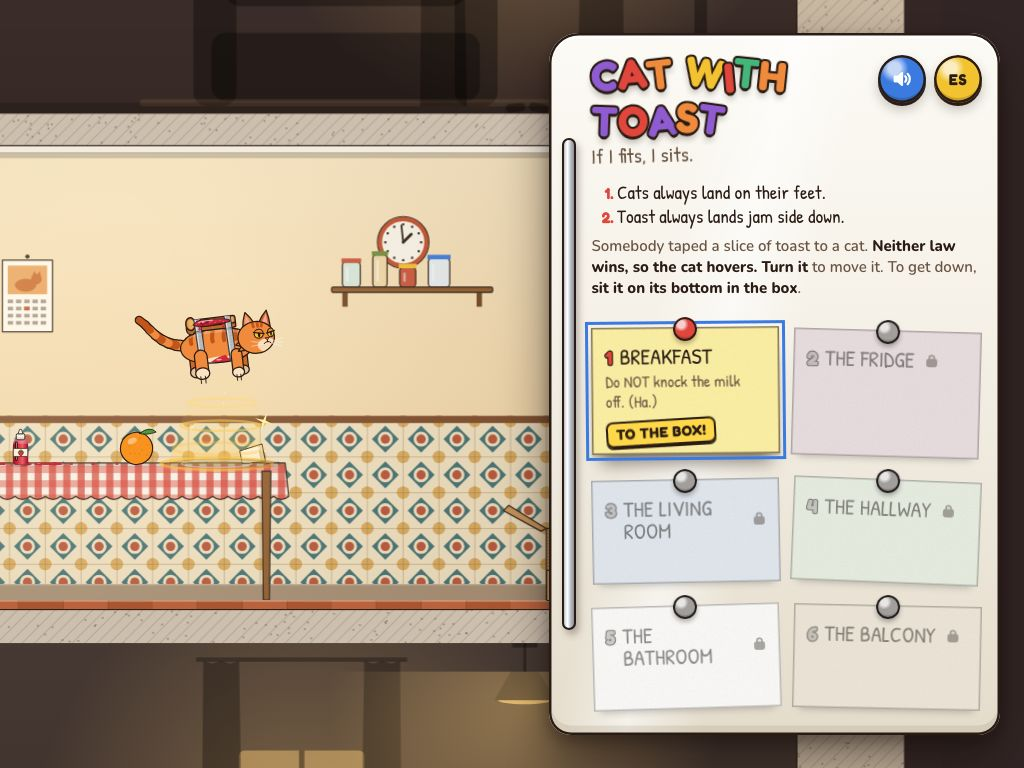
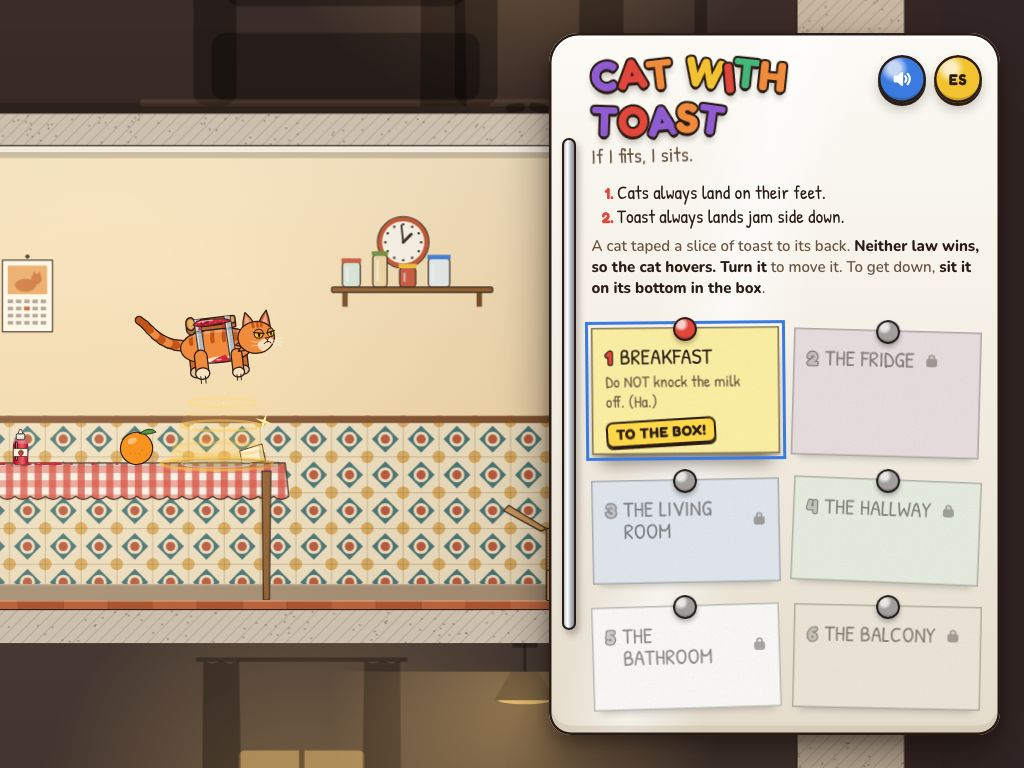
Web publicada desde 8a30f3d

Changed region(s): [[0.5625, 0.3125, 0.9688, 0.4062]]

diff --git a/10-gato-con-tostada/index.html b/10-gato-con-tostada/index.html
@@ -26,10 +26,10 @@
 <meta name="theme-color" content="#2A1C14">
 <meta name="color-scheme" content="light">
 <title>GATO CON TOSTADA · Si quepo, me siento.</title>
-<meta name="description" content="Los gatos siempre caen de pie; las tostadas, del lado de la mermelada. Alguien le ha atado una tostada a un gato y ahora flota. Gíralo para moverlo y, para bajar, siéntalo de culo en la caja.">
+<meta name="description" content="Los gatos siempre caen de pie; las tostadas, del lado de la mermelada. Un gato se ha atado una tostada a la espalda y ahora flota. Gíralo para moverlo y, para bajar, siéntalo de culo en la caja.">
 <meta property="og:type" content="website">
 <meta property="og:title" content="GATO CON TOSTADA · Si quepo, me siento.">
-<meta property="og:description" content="Le han atado una tostada con mermelada a un gato: ninguna ley gana y flota. Gíralo por la casa y siéntalo en la caja de cartón.">
+<meta property="og:description" content="Un gato se ha atado una tostada con mermelada a la espalda: ninguna ley gana y flota. Gíralo por la casa y siéntalo en la caja de cartón.">
 <meta property="og:image" content="https://jrubiosainz.github.io/recreativos/10-gato-con-tostada/assets/img/og.jpg">
 <meta property="og:image:width" content="1200">
 <meta property="og:image:height" content="630">

diff --git a/10-gato-con-tostada/src/i18n.js b/10-gato-con-tostada/src/i18n.js
@@ -8,7 +8,7 @@ const S = {
     canvas: 'Un piso visto en sección. Un gato naranja con una tostada con mermelada atada a la espalda flota sin poder aterrizar.',
     law1: 'Los gatos siempre caen de pie.',
     law2: 'Las tostadas, del lado de la mermelada.',
-    pitch: 'Alguien le ha atado una tostada a un gato. <b>Ninguna ley gana: el gato flota.</b>',
+    pitch: 'Un gato se ha atado una tostada a la espalda. <b>Ninguna ley gana: el gato flota.</b>',
     how: '<b>Gíralo</b> para moverlo. Para bajar, <b>siéntalo de culo en la caja</b>.',
     lv: {
       desayuno: 'No tirar el vaso de leche. (Ja.)',
@@ -94,7 +94,7 @@ const S = {
     canvas: 'A flat seen in cross-section. A ginger cat with a slice of toast and jam taped to its back hovers, unable to land.',
     law1: 'Cats always land on their feet.',
     law2: 'Toast always lands jam side down.',
-    pitch: 'Somebody taped a slice of toast to a cat. <b>Neither law wins, so the cat hovers.</b>',
+    pitch: 'A cat taped a slice of toast to its back. <b>Neither law wins, so the cat hovers.</b>',
     how: '<b>Turn it</b> to move it. To get down, <b>sit it on its bottom in the box</b>.',
     lv: {
       desayuno: 'Do NOT knock the milk off. (Ha.)',

diff --git a/10-gato-con-tostada/src/main.js b/10-gato-con-tostada/src/main.js
@@ -1,5 +1,5 @@
-// GATO CON TOSTADA: cats always land on their feet, toast always lands jam side down, and somebody has taped a
-// slice of toast and jam to a cat's back. Neither law gives way, so it hovers. You turn it (that's all you do):
+// GATO CON TOSTADA: cats always land on their feet, toast always lands jam side down, and a cat has taped a
+// slice of toast and jam to its own back. Neither law gives way, so it hovers. You turn it (that's all you do):
 // tilted it travels, level it stops, spun it climbs, and on its tail it gives up the fight and sits. It only really
 // sits in one place: the cardboard box. This file is the conductor: the fixed-step clock, the two-way turn, the
 // screens, each room's intro (the leap and the tape), the title's attract loop, the landing, sharing, QA entry points.
